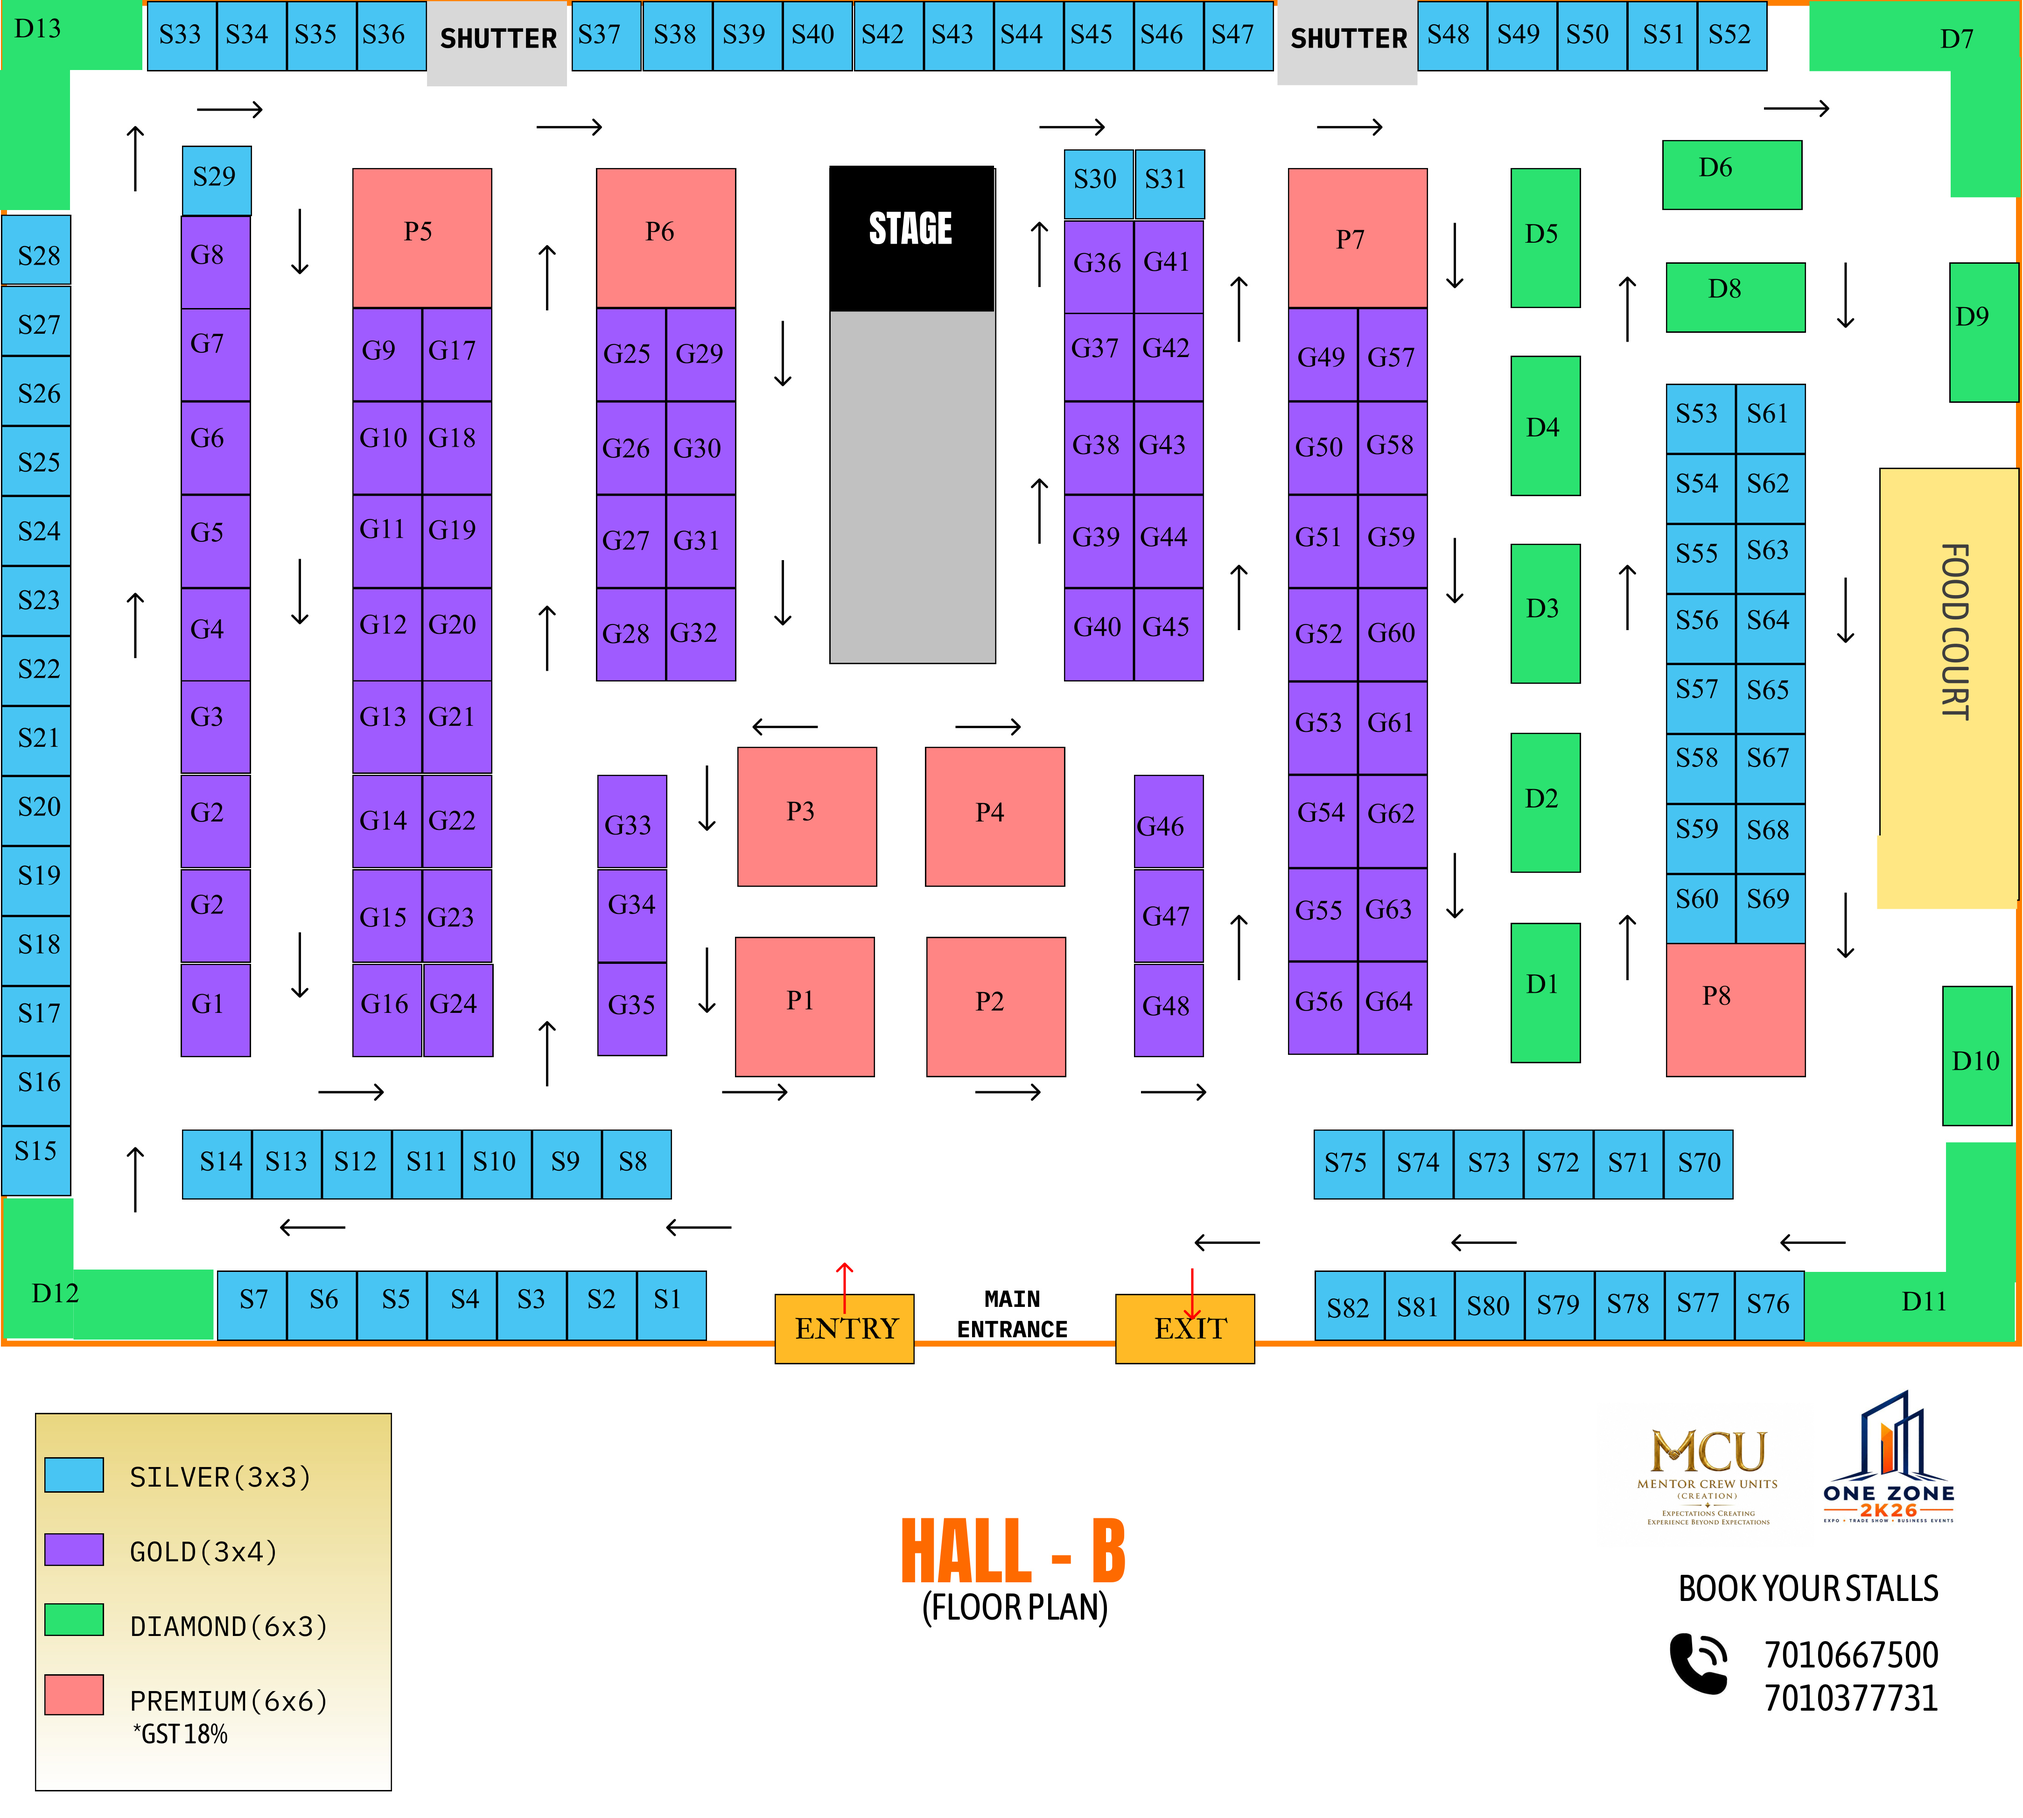
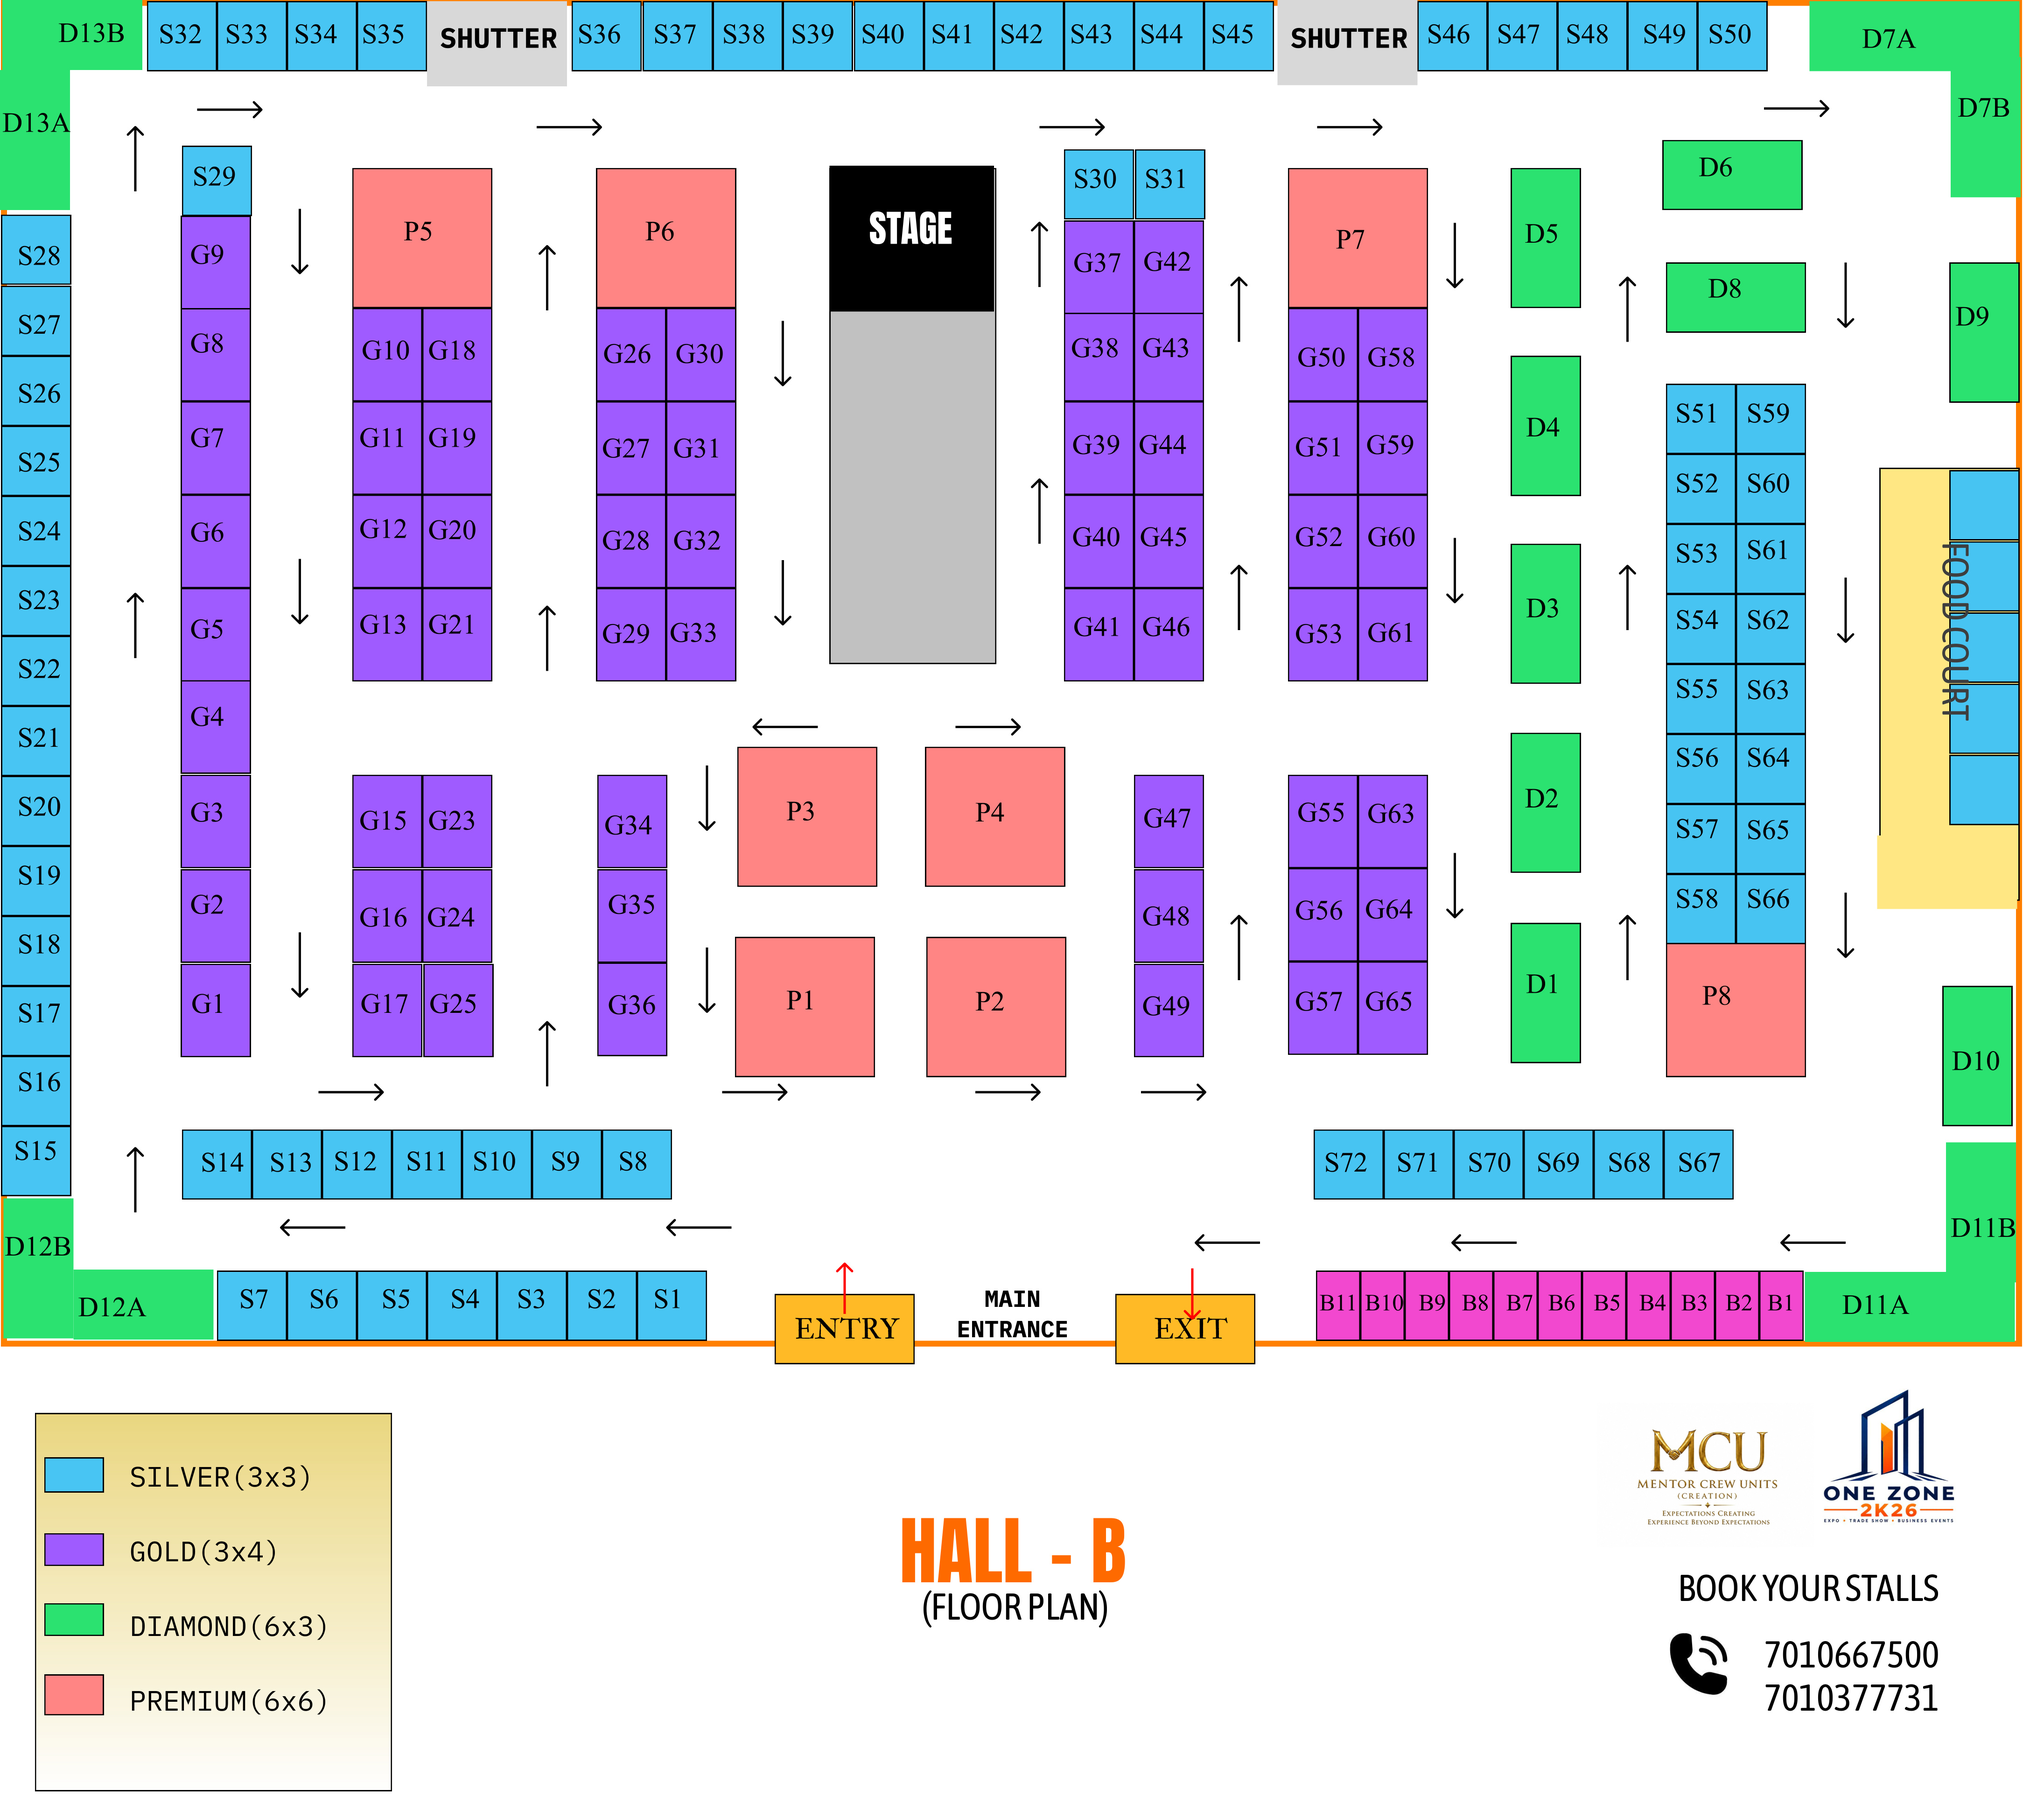
floorplan update

diff --git a/src/components/home/FloorPlanModal.tsx b/src/components/home/FloorPlanModal.tsx
@@ -90,9 +90,9 @@ export const FloorPlanModal: React.FC<FloorPlanModalProps> = ({ isOpen, onClose 
           <div className="flex items-center gap-2 font-mono font-bold text-[#2B2118]">
             <Phone className="h-3.5 w-3.5 text-[#B88932]" />
             <span>Book Stalls:</span>
-            <a href="tel:7010377731" className="hover:text-[#B88932] transition-colors">7010377731</a>
+            <a href="tel:7010667500" className="hover:text-[#B88932] transition-colors">7010667500</a>
             <span>/</span>
-            <a href="tel:700667500" className="hover:text-[#B88932] transition-colors">700667500</a>
+            <a href="tel:7010377731" className="hover:text-[#B88932] transition-colors">7010377731</a>
           </div>
         </div>
       </div>

diff --git a/src/components/shared/ContactClientWrapper.tsx b/src/components/shared/ContactClientWrapper.tsx
@@ -100,8 +100,8 @@ export function ContactClientWrapper() {
                   <a href="tel:7010377731" className="block hover:text-[#B88932] transition-colors font-mono font-bold text-[#2B2118]">
                     7010377731
                   </a>
-                  <a href="tel:700667500" className="block hover:text-[#B88932] transition-colors font-mono font-bold text-[#2B2118]">
-                    700667500
+                  <a href="tel:7010667500" className="block hover:text-[#B88932] transition-colors font-mono font-bold text-[#2B2118]">
+                    7010667500
                   </a>
                 </div>
               </div>

diff --git a/src/services/adminSettings.service.ts b/src/services/adminSettings.service.ts
@@ -126,7 +126,7 @@ export const defaultPlatformSettings: PlatformSettings = {
   companyName: 'MCU (Mentor Crew Units) Creations',
   legalName: 'MCU (Mentor Crew Units) Creations',
   contactEmail: 'info@mcucreations.com',
-  supportPhone: '7010377731 / 700667500',
+  supportPhone: '7010377731 / 7010667500',
   headquartersAddress: '3rd Floor, Masakalipalayam, Ram Lakshman Nagar, Uppilipalayam, Coimbatore, Tamil Nadu - 641004, India',
   gstNumber: '33AAACM0192Q1ZV',
   businessHours: 'Monday – Saturday: 09:00 AM – 07:00 PM IST',

diff --git a/src/components/layout/Footer.tsx b/src/components/layout/Footer.tsx
@@ -136,10 +136,10 @@ export const Footer: React.FC = () => {
                   </a>
                   <span className="text-[#D4B06A]">·</span>
                   <a
-                    href="tel:700667500"
+                    href="tel:7010667500"
                     className="hover:text-[#B88932] transition-colors font-mono font-bold text-xs sm:text-sm text-[#2B2118]"
                   >
-                    700667500
+                    7010667500
                   </a>
                 </div>
               </li>

diff --git a/src/components/layout/Header.tsx b/src/components/layout/Header.tsx
@@ -198,8 +198,8 @@ export const Header: React.FC = () => {
                 7010377731
               </a>
               <span>/</span>
-              <a href="tel:700667500" className="hover:text-[#B88932] transition-colors">
-                700667500
+              <a href="tel:7010667500" className="hover:text-[#B88932] transition-colors">
+                7010667500
               </a>
             </div>
           </div>

diff --git a/src/config/site.ts b/src/config/site.ts
@@ -8,7 +8,7 @@ export const siteConfig = {
   ogImage: '/logo.png',
   contacts: {
     primaryPhone: '7010377731',
-    secondaryPhone: '700667500',
+    secondaryPhone: '7010667500',
     phone: '7010377731',
     email: 'mcuevents26@gmail.com',
     address: '3rd Floor, Masakalipalayam, Ram Lakshman Nagar, Uppilipalayam, Coimbatore, Tamil Nadu - 641004, India',

diff --git a/src/services/globalSettings.service.ts b/src/services/globalSettings.service.ts
@@ -29,7 +29,7 @@ export const defaultGeneralSettings: GeneralSettings = {
 
 export const defaultContactSettings: ContactSettings = {
   primaryPhone: '7010377731',
-  secondaryPhone: '700667500',
+  secondaryPhone: '7010667500',
   primaryEmail: 'mcuevents26@gmail.com',
   secondaryEmail: 'events@mcucreations.com',
   whatsappNumber: '7010377731',

diff --git a/src/components/shared/JsonLd.tsx b/src/components/shared/JsonLd.tsx
@@ -35,7 +35,7 @@ export const OrganizationJsonLd: React.FC = () => {
       },
       {
         '@type': 'ContactPoint',
-        telephone: '+91-700667500',
+        telephone: '+91-7010667500',
         contactType: 'customer service',
         email: siteConfig.contacts.email,
         areaServed: 'IN',
